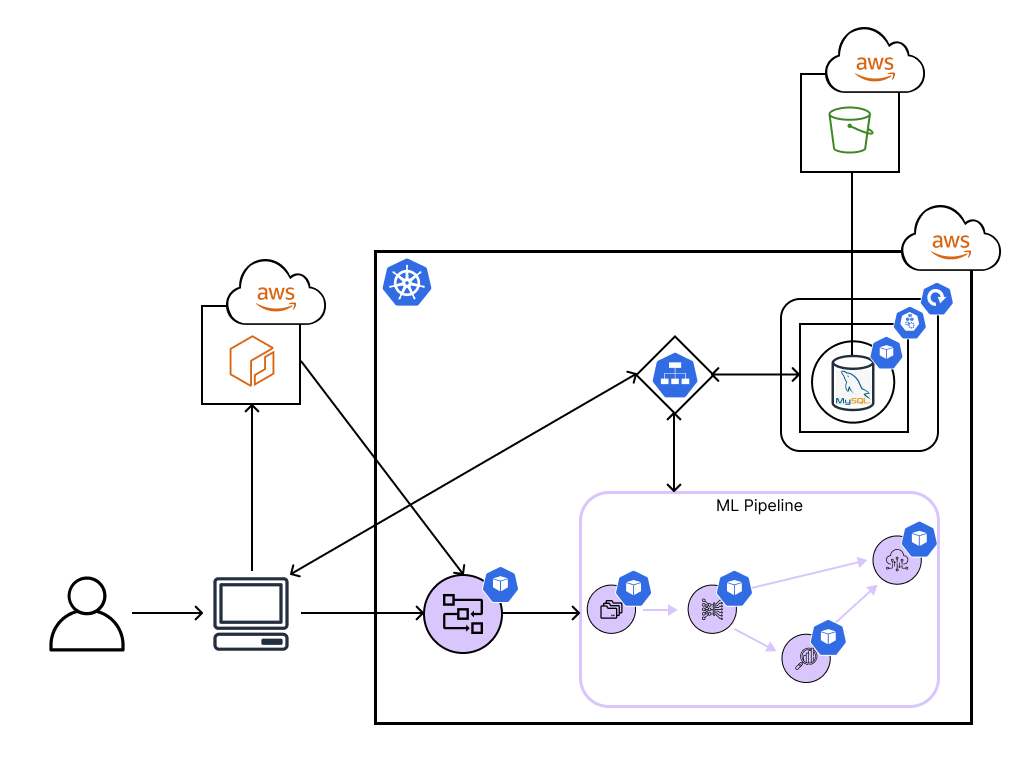
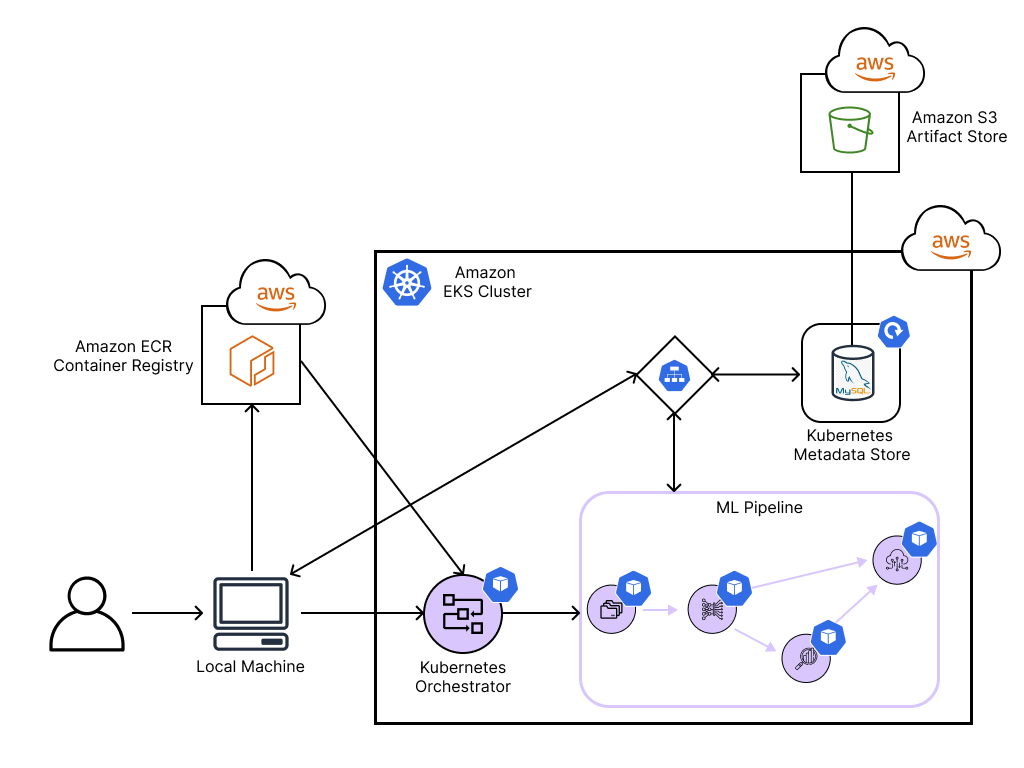
Update Kubernetes orchestrator blog post.

diff --git a/_posts/2022-06-29-k8s-orchestrator.md b/_posts/2022-06-29-k8s-orchestrator.md
@@ -1,7 +1,7 @@
 ---
 layout: post
 author: Felix Altenberger
-title: "Kubernetes-native ML Orchestration"
+title: "How to run production ML workflows natively on Kubernetes"
 description: "Getting started with distributed ML in the cloud: How to orchestrate ML workflows natively on Amazon Elastic Kubernetes Service (EKS)."
 category: zenml
 tags: zenml integrations cloud mlops
@@ -12,80 +12,49 @@ image:
 path: /assets/posts/k8s-orchestrator/zenml_kubernetes_orchestrator_teaser.png
 ---
 
-In this tutorial we will learn how to easily migrate ML workflows to a
-distibuted and scalable cloud setup using ZenML's new Kubernetes-native
-orchestrator and Kubernetes metadata store.
-
-In order to run in the cloud, we will also provision various resources on
-AWS: an S3 bucket for artifact storage, an ECR container registry, as well as 
-an Amazon EKS Kubernetes cluster, on which we will orchestrate our ML
-pipelines.
-
-The following figure shows an overview of the MLOps stack we will set up within
-this tutorial:
-
-![Kubernetes AWS Stack Overview](../assets/posts/k8s-orchestrator/zenml_kubernetes_aws_stack_overview.png)
+Orchestrating ML workflows natively in Kubernetes has been one of the most
+requested features at ZenML.
+We have heard you and have just released a brand new Kubernetes-native
+orchestrator for you, which executes each pipeline step in a separate pod,
+streams the logs of all pods to your terminal, and even supports CRON job
+scheduling.
+Moreover, we have even added a new Kubernetes metadata store that you can
+use with the orchestrator to save your ML metadata in a fresh MySQL database
+automatically deployed within your Kubernetes cluster.
 
 Now, why would we want to orchestrate ML workflows natively in Kubernetes in
-the first place?
-Couldn't we just use [Kubeflow](https://www.kubeflow.org/) to run jobs on
-Kubernetes for us?
-Yes and no.
-Kubeflow is an awesome, battle-tested tool, and it certainly is the most
+the first place when ZenML already integrates with 
+[Kubeflow](https://www.kubeflow.org/) which can run jobs on Kubernetes for us?
+Well, Kubeflow is an awesome, battle-tested tool, and it certainly is the most
 production-ready Kubernetes orchestration tool out there. 
 However, Kubeflow also comes with a lot of additional requirements and general
-added complexity that not every team might want.
+added complexity that not every team might want:
+Kubeflow Pipelines (kfp) alone requires a list of 21 other packages aside from
+Kubernetes, it includes an UI that you might not need as well as a lot of
+Google Cloud specific functionality that is essentially dead code if you are 
+using a different cloud provider.
+Most importantly, someone needs to install it on your cluster, configure it, 
+and actively managed it.
 
 If you are looking for a minimalist, lightweight way of running ML workflows on
 Kubernetes, then this post is for you:
-At the end, you will be able to orchestrate ML pipelines on Kubernetes without
-any additional packages apart from the
+By the time we are done, you will be able to orchestrate ML pipelines on 
+Kubernetes without any additional packages apart from the
 [official Kubernetes Python API](https://github.com/kubernetes-client/python).
 
-## How it works
+In this post we will use the new Kubernetes-native orchestrator and Kubernetes
+metadata store to easily run ML workflows in a distibuted and scalable cloud 
+setting on AWS.
+To do so, we will provision various resources on AWS: an S3 bucket for artifact
+storage, an ECR container registry, as well as an Amazon EKS cluster, on which 
+the Kubernetes-native components will run.
 
-### Orchestration
+The following figure shows an overview of the MLOps stack we will build
+throughout this tutorial:
 
-Similar to Kubeflow, this Kubernetes-native orchestrator runs the steps of
-an ML pipeline in separate Kubernetes pods and executes them in parallel where
-possible.
-However, the orchestration of the different pods is not done by Kubeflow but by
-a separate master job, which figures out the order of steps using
-topological sort, starts Kubernetes jobs for each step, and aggregates logs of
-all pods and streams them back to the user client.
+![Kubernetes AWS Stack Overview](../assets/posts/k8s-orchestrator/zenml_kubernetes_aws_stack_overview.png)
 
-### Metadata Storage
-
-ZenML's new Kubernetes metadata store automatically saves your ML metadata in a
-fresh MySQL database deployed within your Kubernetes cluster.
-
-To understand how this works, we need to dive a bit deeper into core Kubernetes
-concepts:
-The most important concept in Kubernetes is the pod, which is the smallest 
-deployable unit of computation.
-Each pod runs on a node, which is the underlying physical or virtual machine, 
-and it is comprised of one or more Docker containers with optional shared
-resources.
-Pods can either be provisioned manually (as we do during the orchestration)
-or through a deployment, which automatically creates and maintains a desired 
-number of replicas of a given pod to ensure high availability of the deployed
-resources.
-A Kubernetes service can then be used to expose pods as a network service so
-that we can access those pods from within other pods or from outside the
-cluster.
-See the following figure for a visualization.
-
-![Kubernetes Overview](../assets/posts/k8s-orchestrator/kubernetes_overview.png)
-
-ZenML's Kubernetes metadata store spins up a deployment under the hood, which
-manages pods that are connected to a MySQL database in a persitent volume.
-The deployed pods are exposed via a service that can be accessed by the step
-pods to read and write metadata.
-
-## Running on Kubernetes in the Cloud
-
-Let's now see how to use the aforementioned Kubernetes components to run ML 
-workflows in the cloud. 
+## Setting Up AWS Resources
 
 In this example, we will use AWS as our cloud provider of choice and provision
 an EKS Kubernetes cluster, as well as a S3 bucket to store our ML artifacts 
@@ -107,8 +76,7 @@ installed on your local machine:
 ### EKS Setup
 
 First, create an EKS cluster on AWS according to
-[this tutorial](https://docs.aws.amazon.com/eks/latest/userguide/create-cluster.html).
-TODO: replace by in-depth tutorial with screenshots
+[this AWS tutorial](https://docs.aws.amazon.com/eks/latest/userguide/create-cluster.html).
 
 Next, configure your local `kubectl` to connect to the EKS cluster we just
 created:
@@ -119,13 +87,11 @@ aws eks --region <AWS_REGION> update-kubeconfig
     --alias <KUBE_CONTEXT>
 ```
 
-
 ### S3 Bucket Setup
 
 Next, let us create an S3 bucket where our ML artifacts can later be stored.
 You can do so by following
-[this tutorial](https://docs.aws.amazon.com/AmazonS3/latest/userguide/create-bucket-overview.html).
-TODO: replace by in-depth tutorial with screenshots
+[this AWS tutorial](https://docs.aws.amazon.com/AmazonS3/latest/userguide/create-bucket-overview.html).
 
 The path for your bucket should be in this format `s3://your-bucket`.
 
@@ -141,8 +107,7 @@ TODO: in-depth tutorial with screenshots
 Since each of the Kubernetes pods will require a custom Docker image, we will
 also set up an ECR container registry to manage those.
 You can do so by following
-[this tutorial](https://docs.aws.amazon.com/AmazonECR/latest/userguide/get-set-up-for-amazon-ecr.html).
-TODO: replace by in-depth tutorial with screenshots
+[this AWS tutorial](https://docs.aws.amazon.com/AmazonECR/latest/userguide/get-set-up-for-amazon-ecr.html).
 
 In order to push container images to ECR, we now still need to authenticate our
 local docker CLI:
